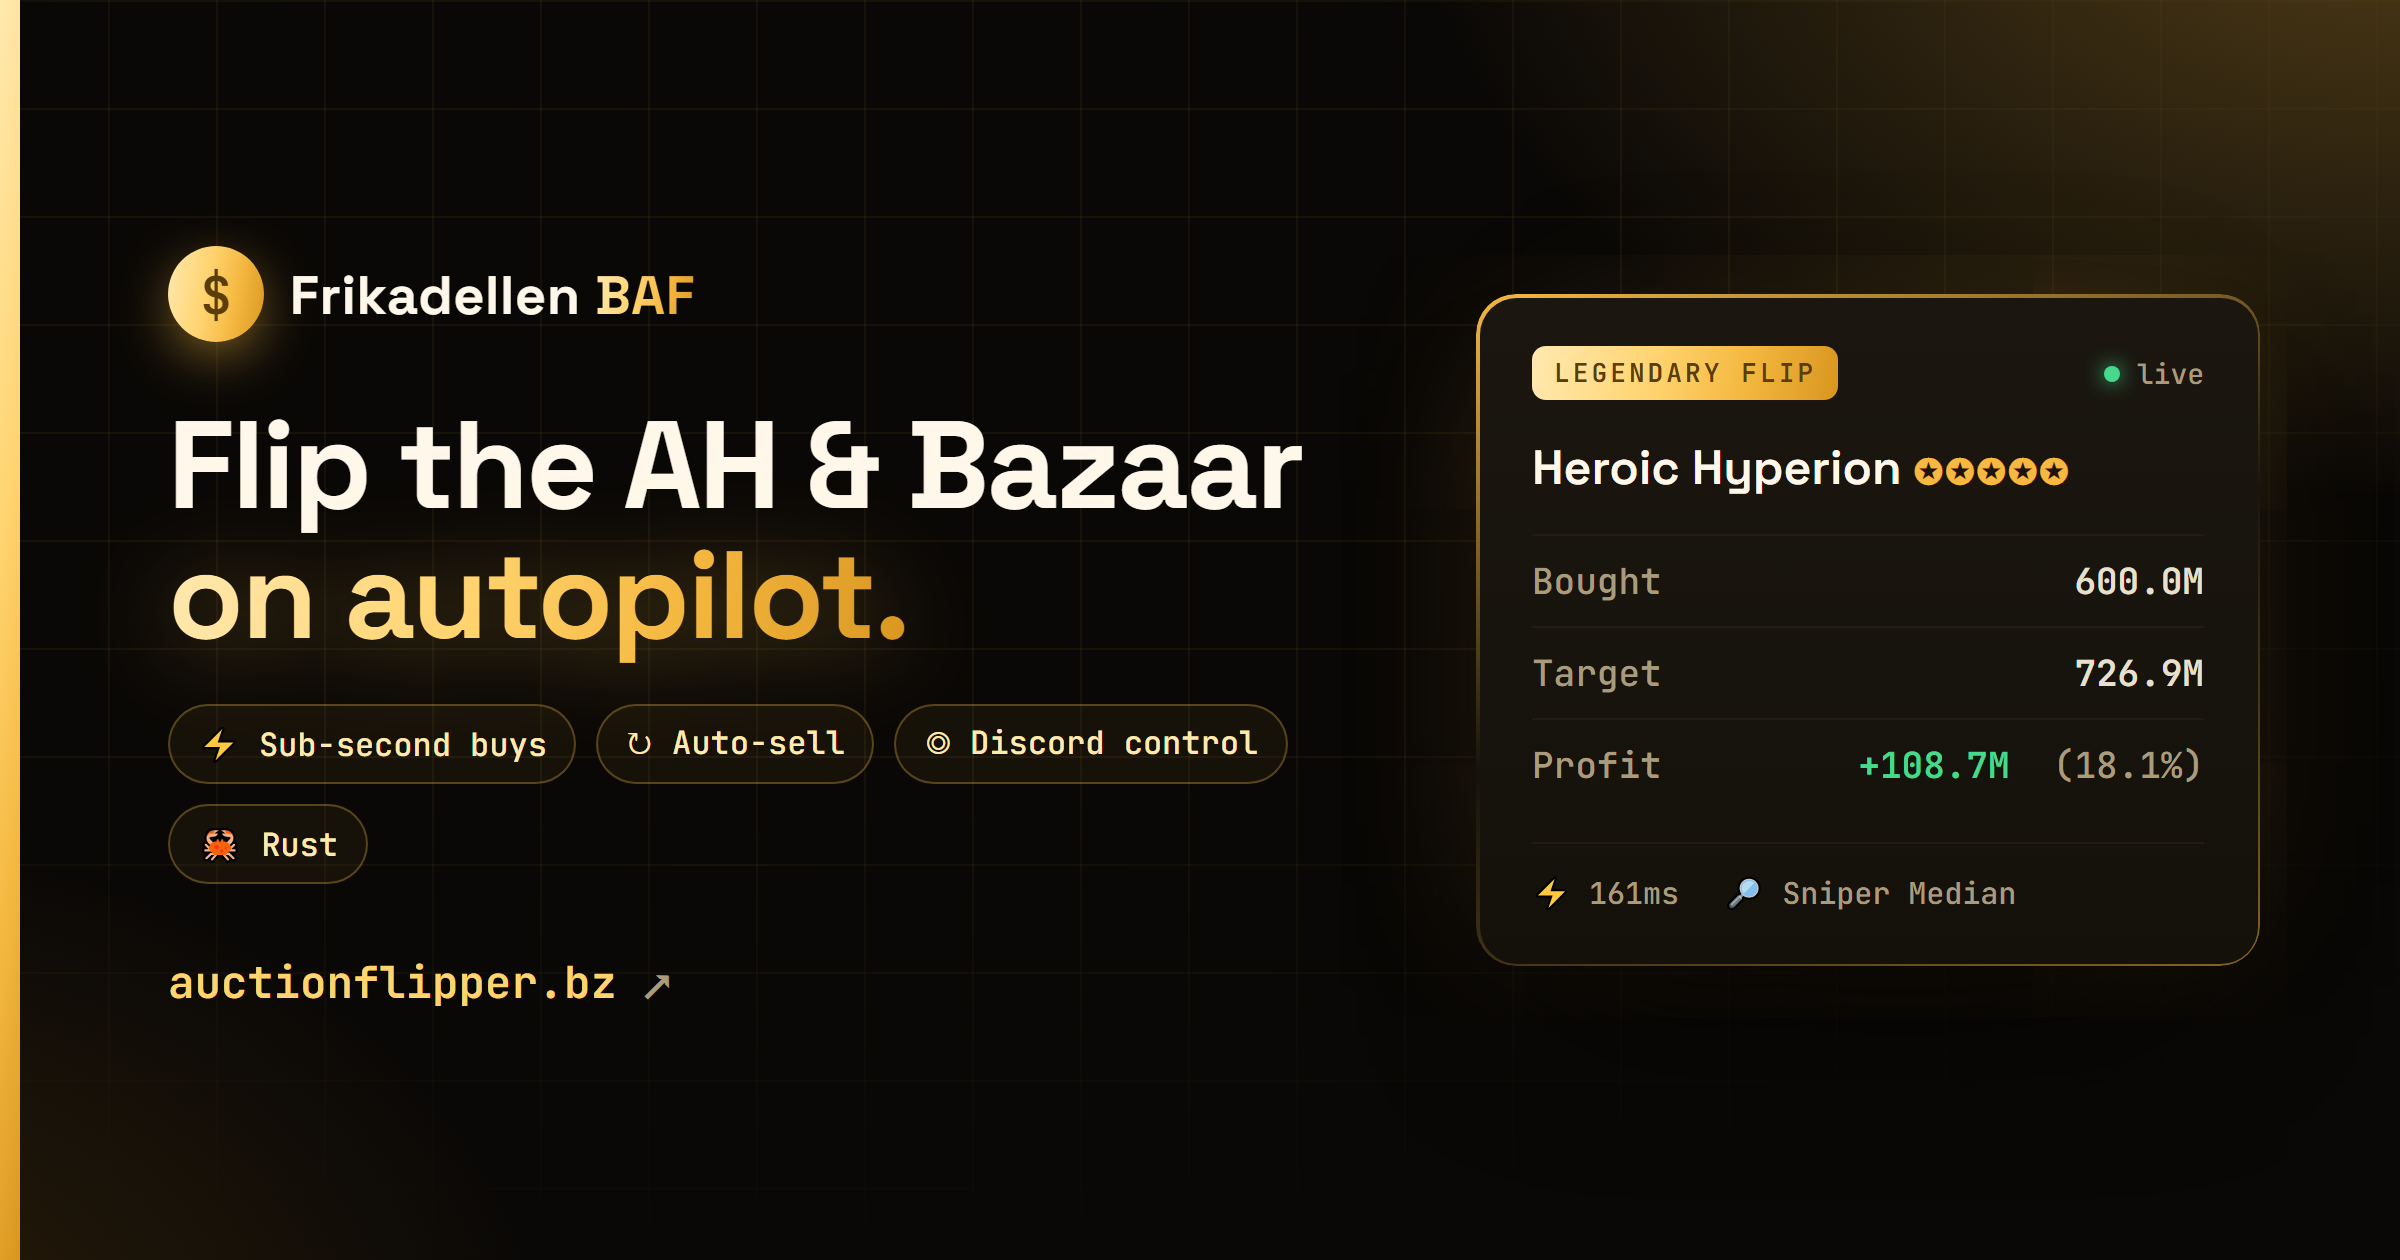
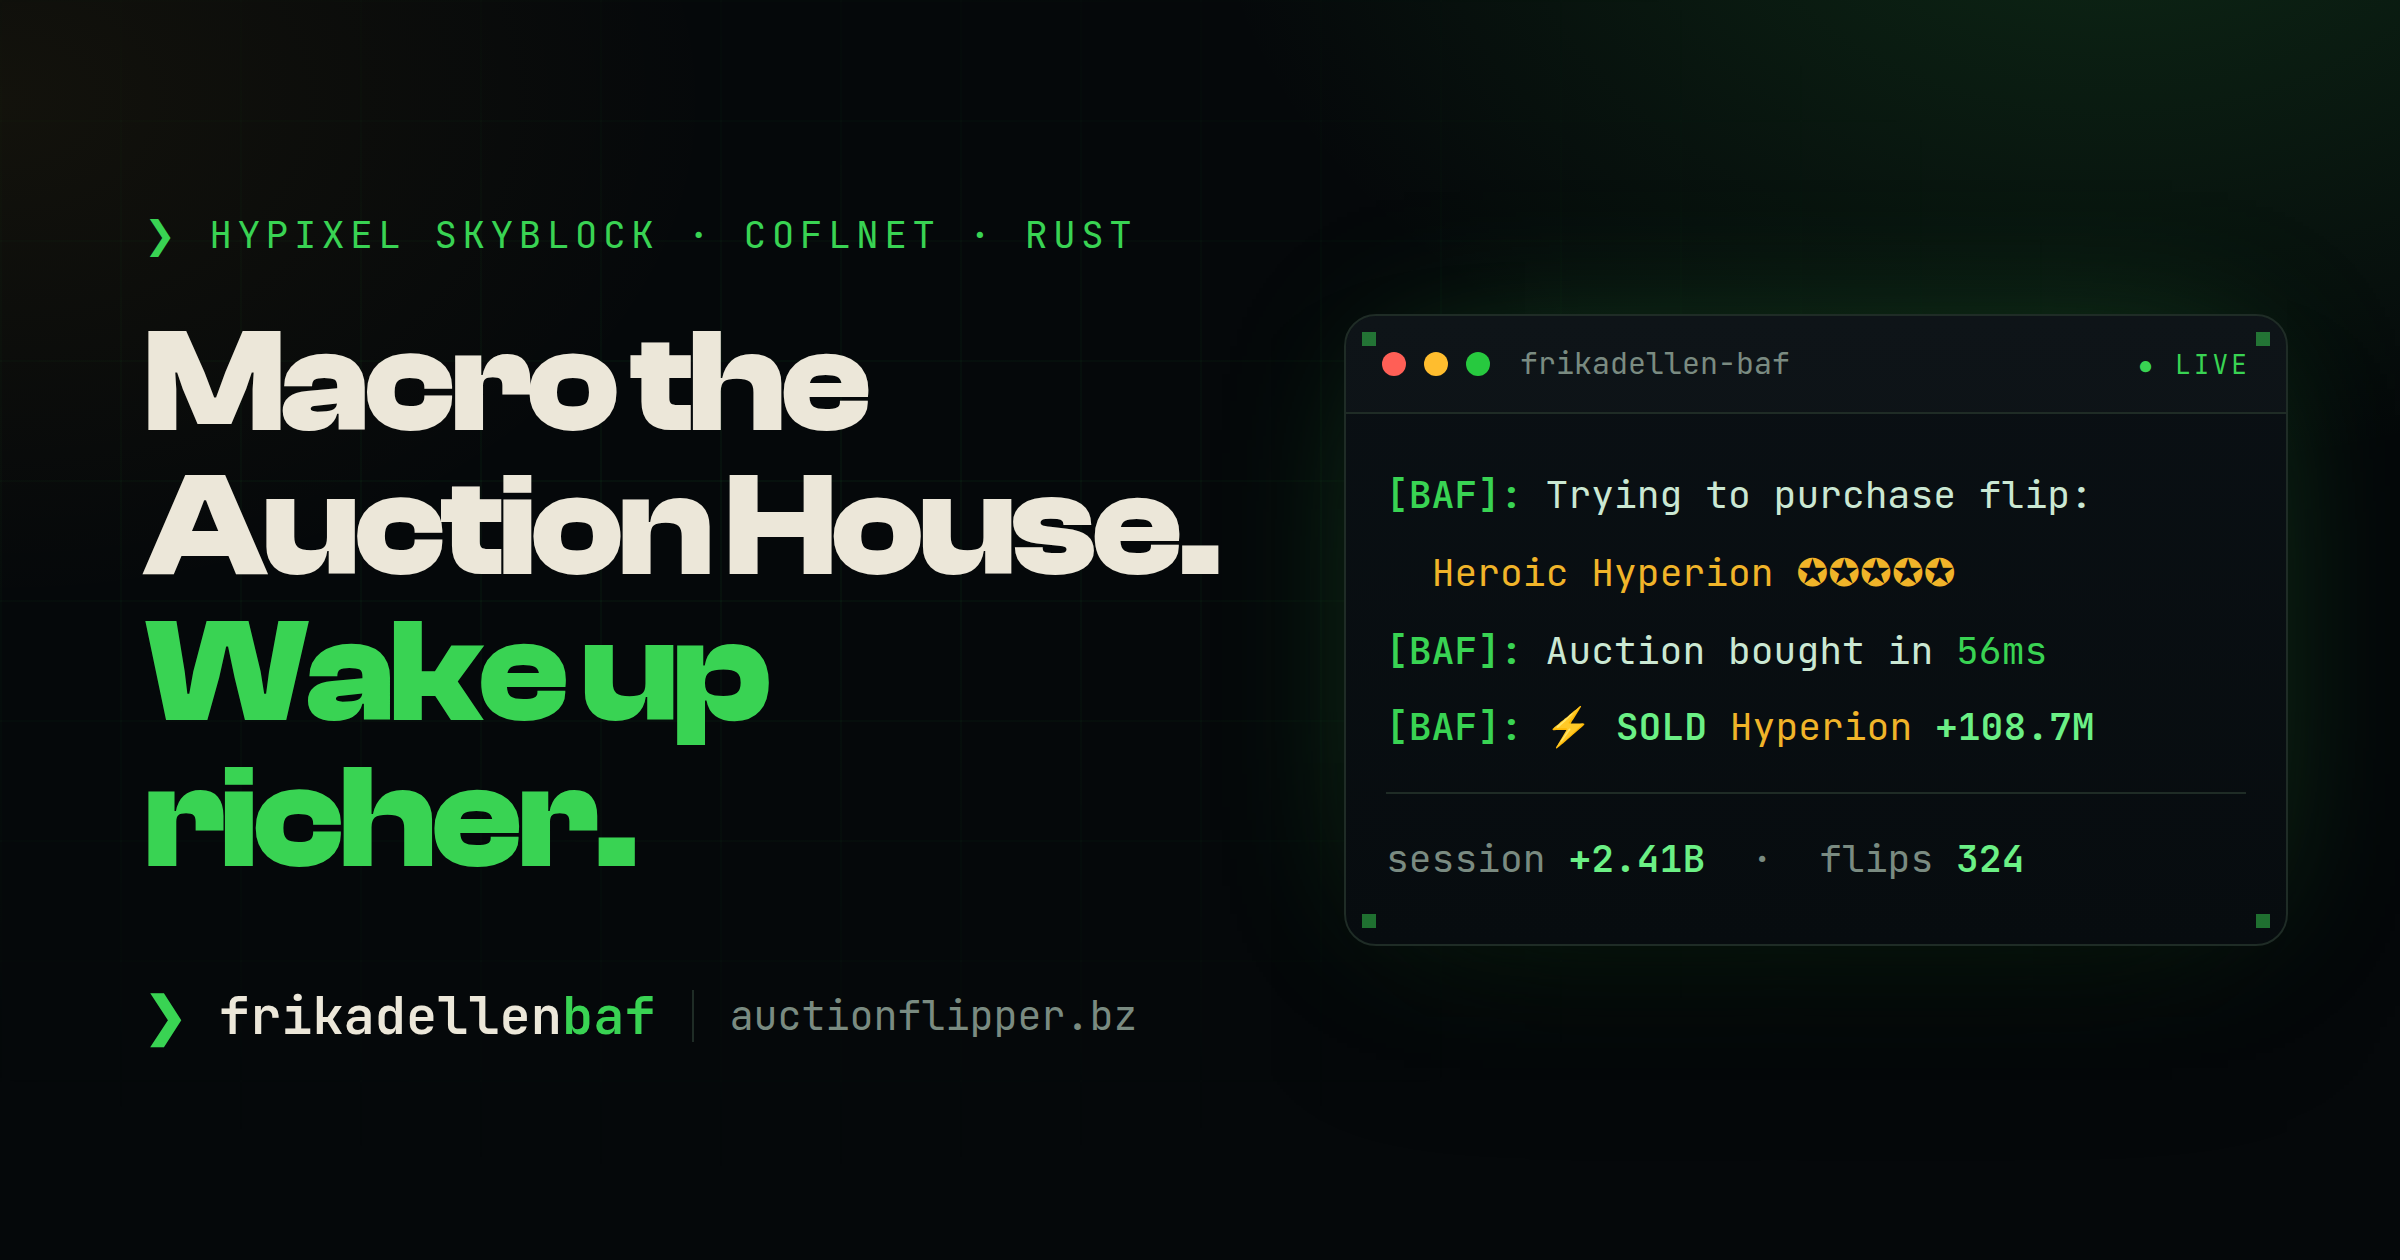
og: regenerate share image in the phosphor terminal look, cache-bust to ?v=2
The Discord/social embed still showed the old ledger og.png. New 1200x630 (2x)
image matches the redesign (headline + live [BAF] terminal); URL bumped to ?v=2
so Discord re-fetches instead of serving its cached copy.

diff --git a/index.html b/index.html
@@ -15,7 +15,7 @@
     <meta property="og:url" content="https://auctionflipper.bz">
     <meta property="og:title" content="Frikadellen BAF · Auction &amp; Bazaar Flipper">
     <meta property="og:description" content="A free Hypixel SkyBlock macro that flips the Auction House and Bazaar automatically. Make coins on autopilot, 24/7. Built in Rust.">
-    <meta property="og:image" content="https://auctionflipper.bz/assets/og.png">
+    <meta property="og:image" content="https://auctionflipper.bz/assets/og.png?v=2">
     <meta property="og:image:width" content="1200">
     <meta property="og:image:height" content="630">
     <meta property="og:image:alt" content="Frikadellen BAF · macro the Auction House and Bazaar on autopilot">
@@ -23,7 +23,7 @@
     <meta name="twitter:card" content="summary_large_image">
     <meta name="twitter:title" content="Frikadellen BAF · Auction &amp; Bazaar Flipper">
     <meta name="twitter:description" content="A free Hypixel SkyBlock macro that makes coins on autopilot. Built in Rust.">
-    <meta name="twitter:image" content="https://auctionflipper.bz/assets/og.png">
+    <meta name="twitter:image" content="https://auctionflipper.bz/assets/og.png?v=2">
     <meta name="theme-color" content="#05080a">
 
     <link rel="preconnect" href="https://api.fontshare.com" crossorigin>